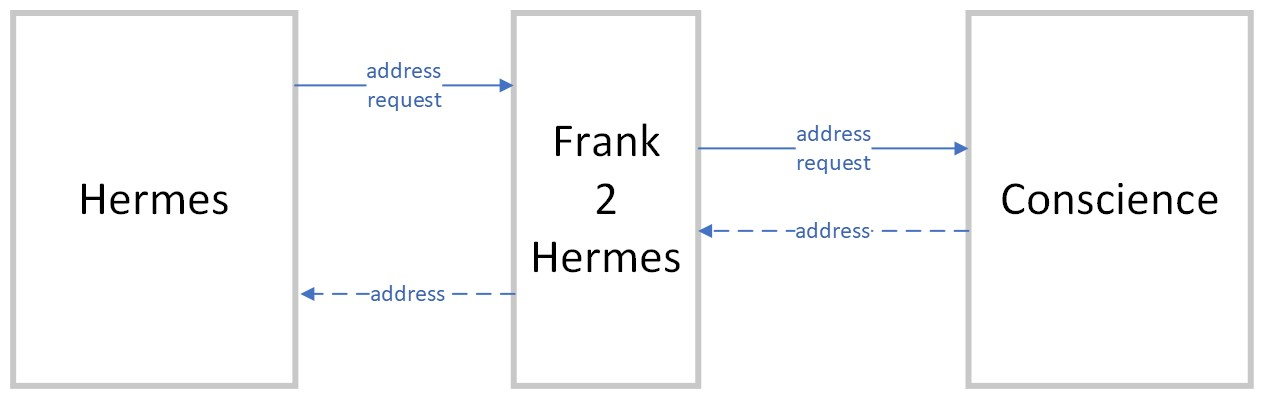
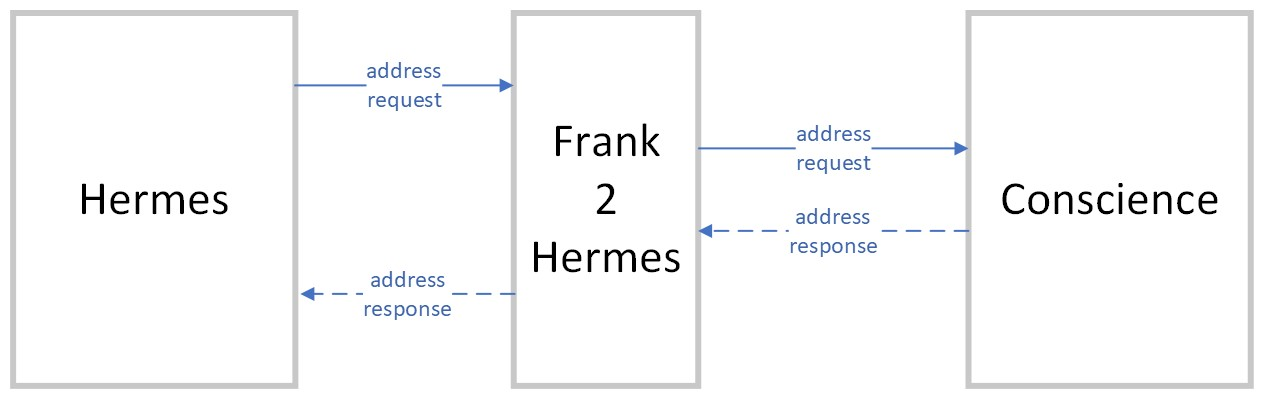
Finish previous commit

Changed region(s): [[0.6176, 0.5113, 0.7102, 0.6316], [0.2779, 0.6917, 0.3705, 0.812]]

diff --git a/docs/source/testing/larva/services.rst b/docs/source/testing/larva/services.rst
@@ -48,15 +48,15 @@ Your scenario needs the services you have defined in ``common.properties``. Plea
 
    .. include:: ../../snippets/Frank2Hermes/v520/scenario01AddInclude.txt
 
-Next, you will write a Hermes-formatted address request to your system-under-test "Frank2Hermes". This is message 1 in the figure to the bottom of the previous subsection :ref:`testingLarvaStubbing`. To the top of that subsection, you already saw an example Hermes-formatted address request. Please continue as follows:
+Next, you will write a Hermes-formatted address request to your system-under-test "Frank2Hermes". This is message 1 in the figure to the bottom of the previous subsection :ref:`testingLarvaStubbing`. To the top of that subsection in Figure 1, you already saw an example Hermes-formatted address request. Please continue as follows:
 
 7. Create file ``Frank2Manual/tests/hermesBridge/scenario01/hermesAddressRequest.xml``.
-#. Fill it with the example Hermes-formatted address request you find in subsection :ref:`testingLarvaStubbing`.
+#. Fill it with the text of Figure 1 of subsection :ref:`testingLarvaStubbing`.
 #. Extend your file ``scenario01.properties`` as shown:
 
    .. include:: ../../snippets/Frank2Hermes/v525/scenario01Message1.txt
 
-You see a new syntax here that needs explanation. The file you are writing appears to the right of the ``=`` sign. The property name before the ``=`` sign has to: a) command that the mentioned file is to be written; b) specify the service that has to do the writing; and c) specify when the write has to happen. Point (c) is expressed by the first word ``step1``. Point (b) is pressed by the next two words ``adapter.toConscience``. Point (a) is expressed by the last word ``write``.
+You see a new syntax here that needs explanation. The file you are writing appears to the right of the ``=`` sign. The property name before the ``=`` sign has to: (a) command that the mentioned file is to be written; (b) specify the service that has to do the writing; and (c) specify when the write has to happen. Point (c) is expressed by the first word ``step1``. Point (b) is pressed by the next two words ``adapter.toConscience``. Point (a) is expressed by the last word ``write``.
 
 You will continue with message 2 of the figure of subsection :ref:`testingLarvaStubbing`. Now a message is coming from your system-under-test, and you have to ``read`` this message. The ``read`` command compares the read text with the file mentiond to the right of the ``=`` sign. You test here that "Frank2Hermes" transforms a Hermes address request correctly into a Conscience address request. The reading has to be done by service ``stub.conscience`` and it is ``step2`` of your scenario. Please continue as follows:
 
@@ -64,12 +64,12 @@ You will continue with message 2 of the figure of subsection :ref:`testingLarvaS
 
     .. include:: ../../snippets/Frank2Hermes/v530/scenario01Message2.txt
 
-#. Create file ``Frank2Manual/tests/hermesBridge/scenario01/conscienceAddressRequest.xml``. Fill it with the example Conscience address request you can find in subsection :ref:`testingLarvaStubbing`.
+#. Create file ``Frank2Manual/tests/hermesBridge/scenario01/conscienceAddressRequest.xml``. Fill it with the example Conscience address request Figure 2.
 
 You have seen all Larva syntax you need to finish your test. You need to write message 3, the response to "Frank2Hermes" that is the Conscience-formatted address. The writing has to be done by service ``stub.conscience``. Finally your test needs to read message 4, the Hermes-formatted address, comparing it with the address you expect. Please continue as follows:
 
-12. Create file ``Frank2Manual/tests/hermesBridge/scenario01/conscienceAddressResponse.xml``. Fill it with the example of a Conscience address.
-#. Create file ``Frank2Manual/tests/hermesBridge/scenario01/hermesAddressResponse.xml``. Fill it with the example of a Hermes address.
+12. Create file ``Frank2Manual/tests/hermesBridge/scenario01/conscienceAddressResponse.xml``. Fill it with Figure 3.
+#. Create file ``Frank2Manual/tests/hermesBridge/scenario01/hermesAddressResponse.xml``. Fill it with Figure 4.
 #. Finish ``scenario01.properties`` as shown:
 
     .. include:: ../../snippets/Frank2Hermes/v550/scenario01Complete.txt
@@ -85,7 +85,7 @@ Please try your test as follows:
 
     .. image:: runRequestReplyTest.jpg
 
-#. You see you are in Larva (number 1). Select that you want to run all your tests ("\\\\" in number 2) and press "start" (number 3).
+#. You see you are in Larva (number 1). Select that you want to run all your tests ("\\" in number 2) and press "start" (number 3).
 #. All your tests should succeed. Please check this (see number 4).
 #. A test scenario is a sequence of steps that depend on each other. You should have one scenario named "hermesBridge/scenario01". Please check that you see the decription you entered earlier.
 #. You see all four steps of your scenario (number 6 shows step 1). If a step fails it becomes red, showing you where the problem occurs.
